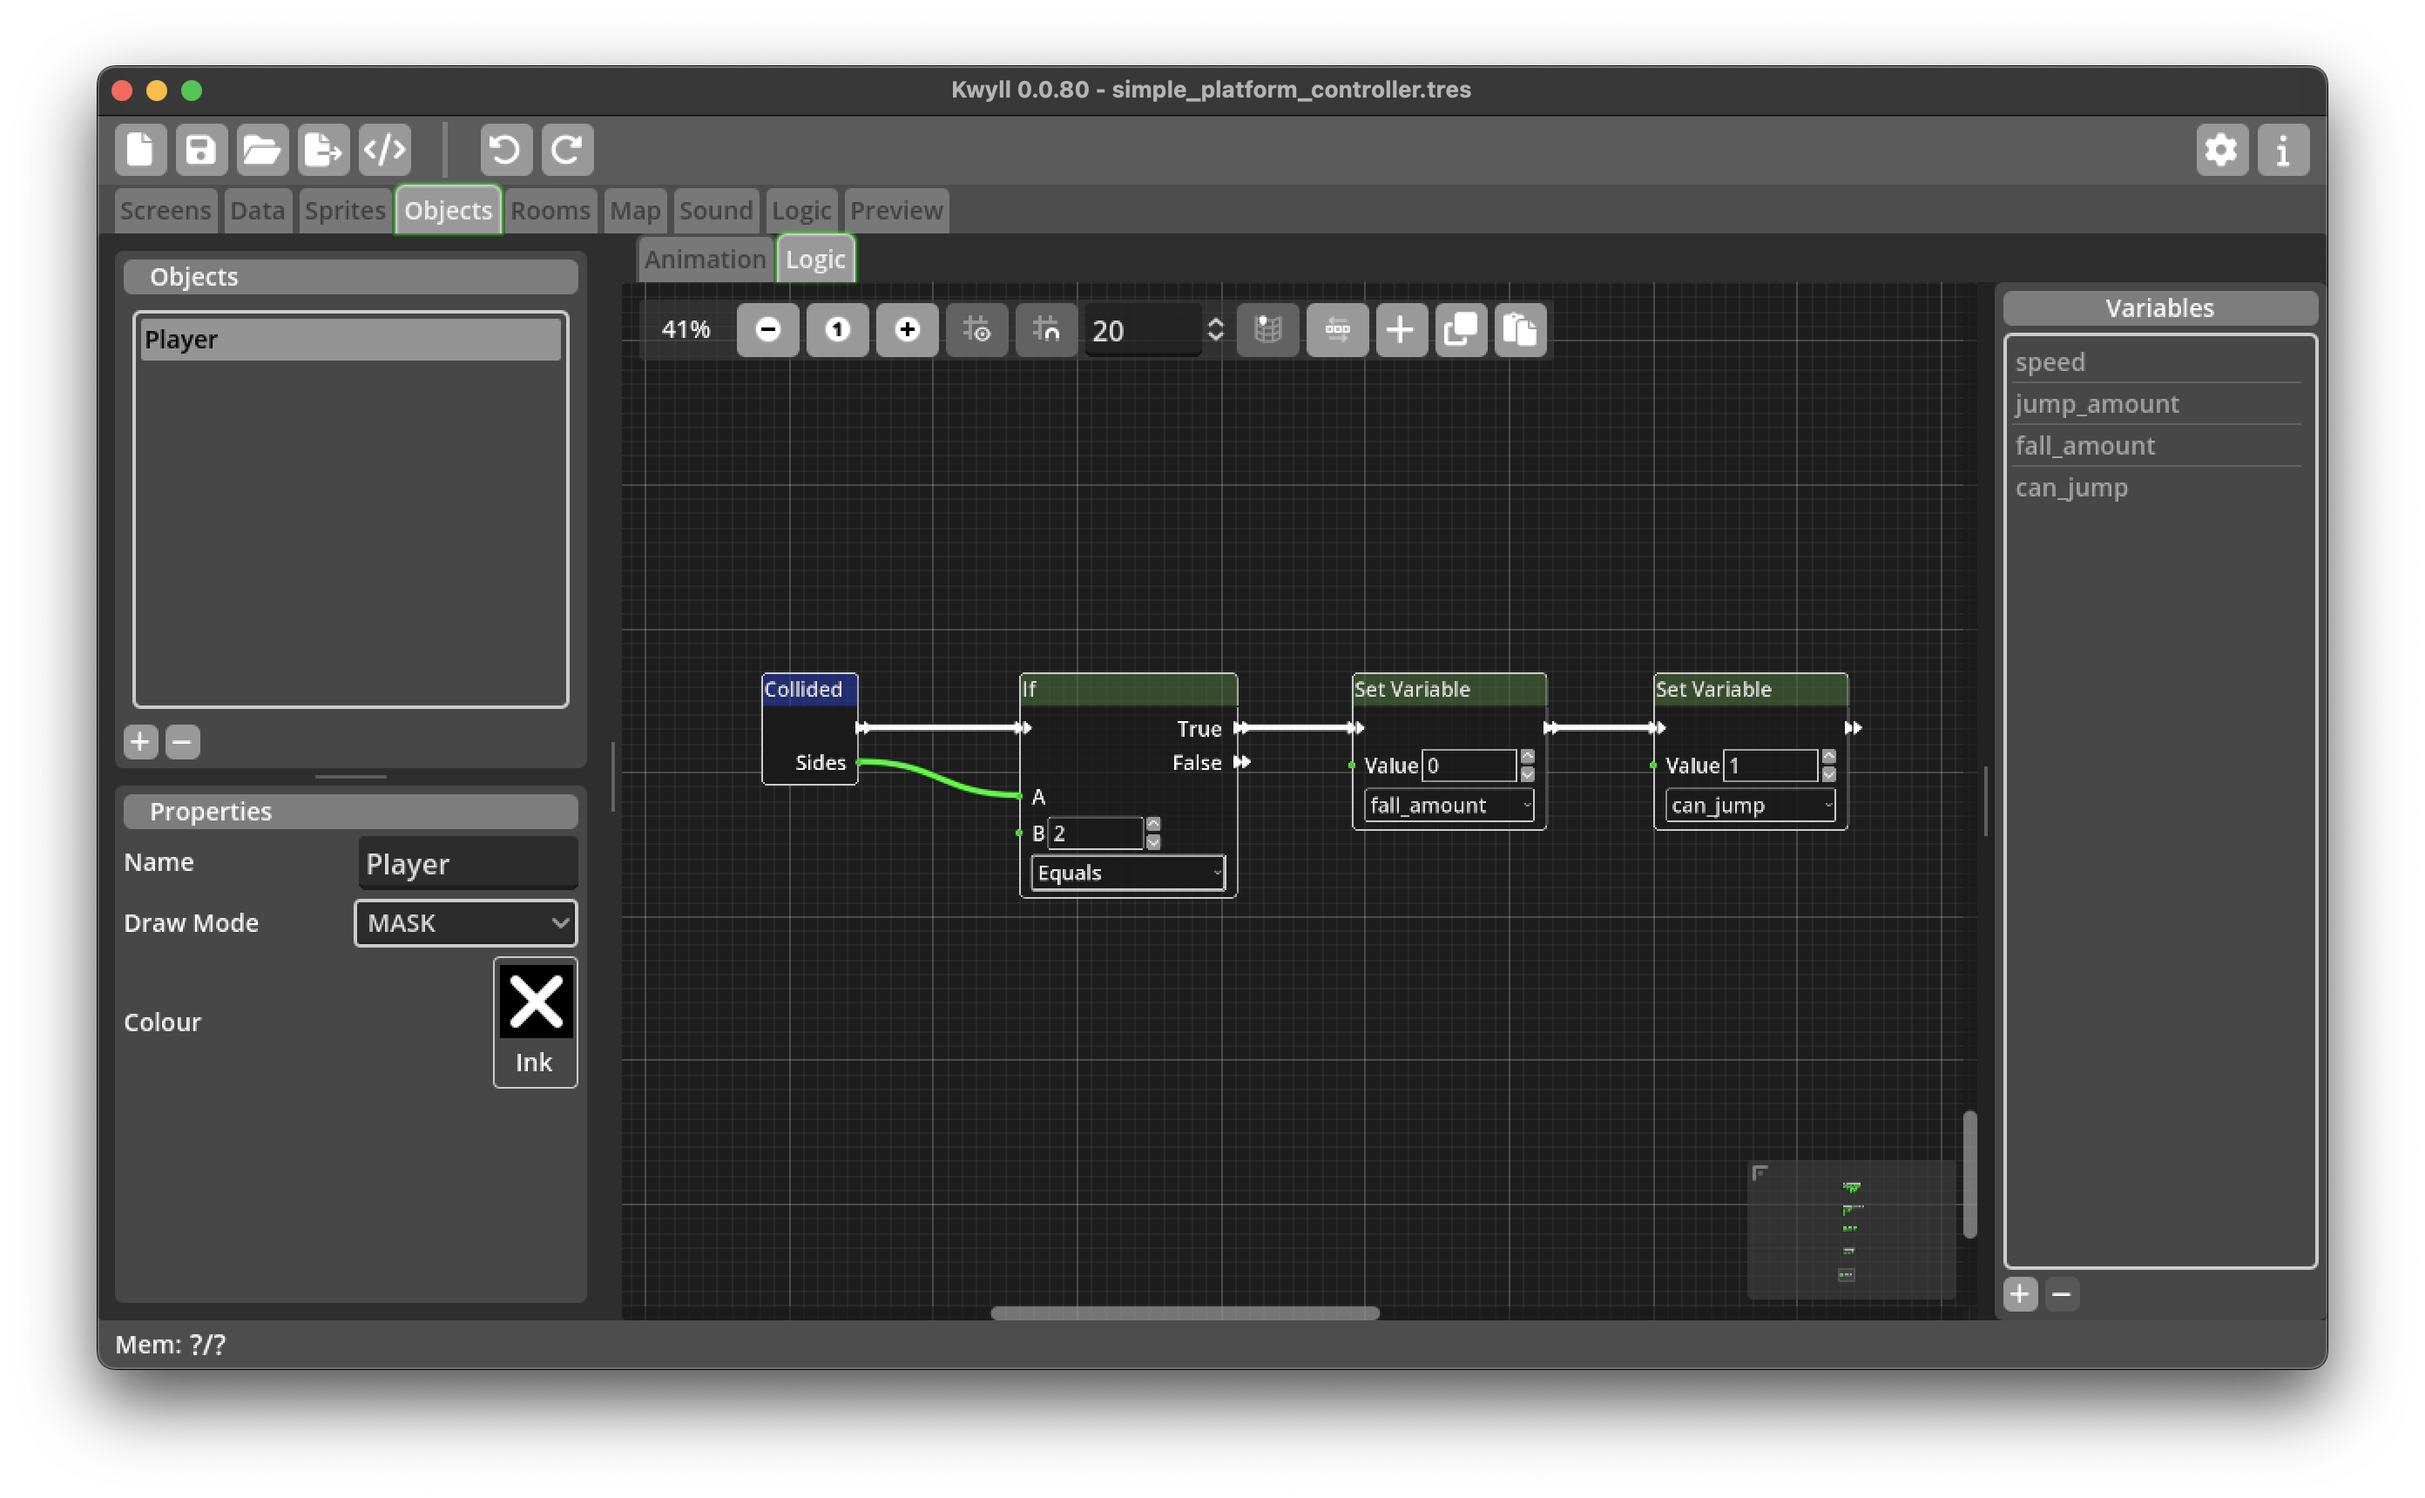
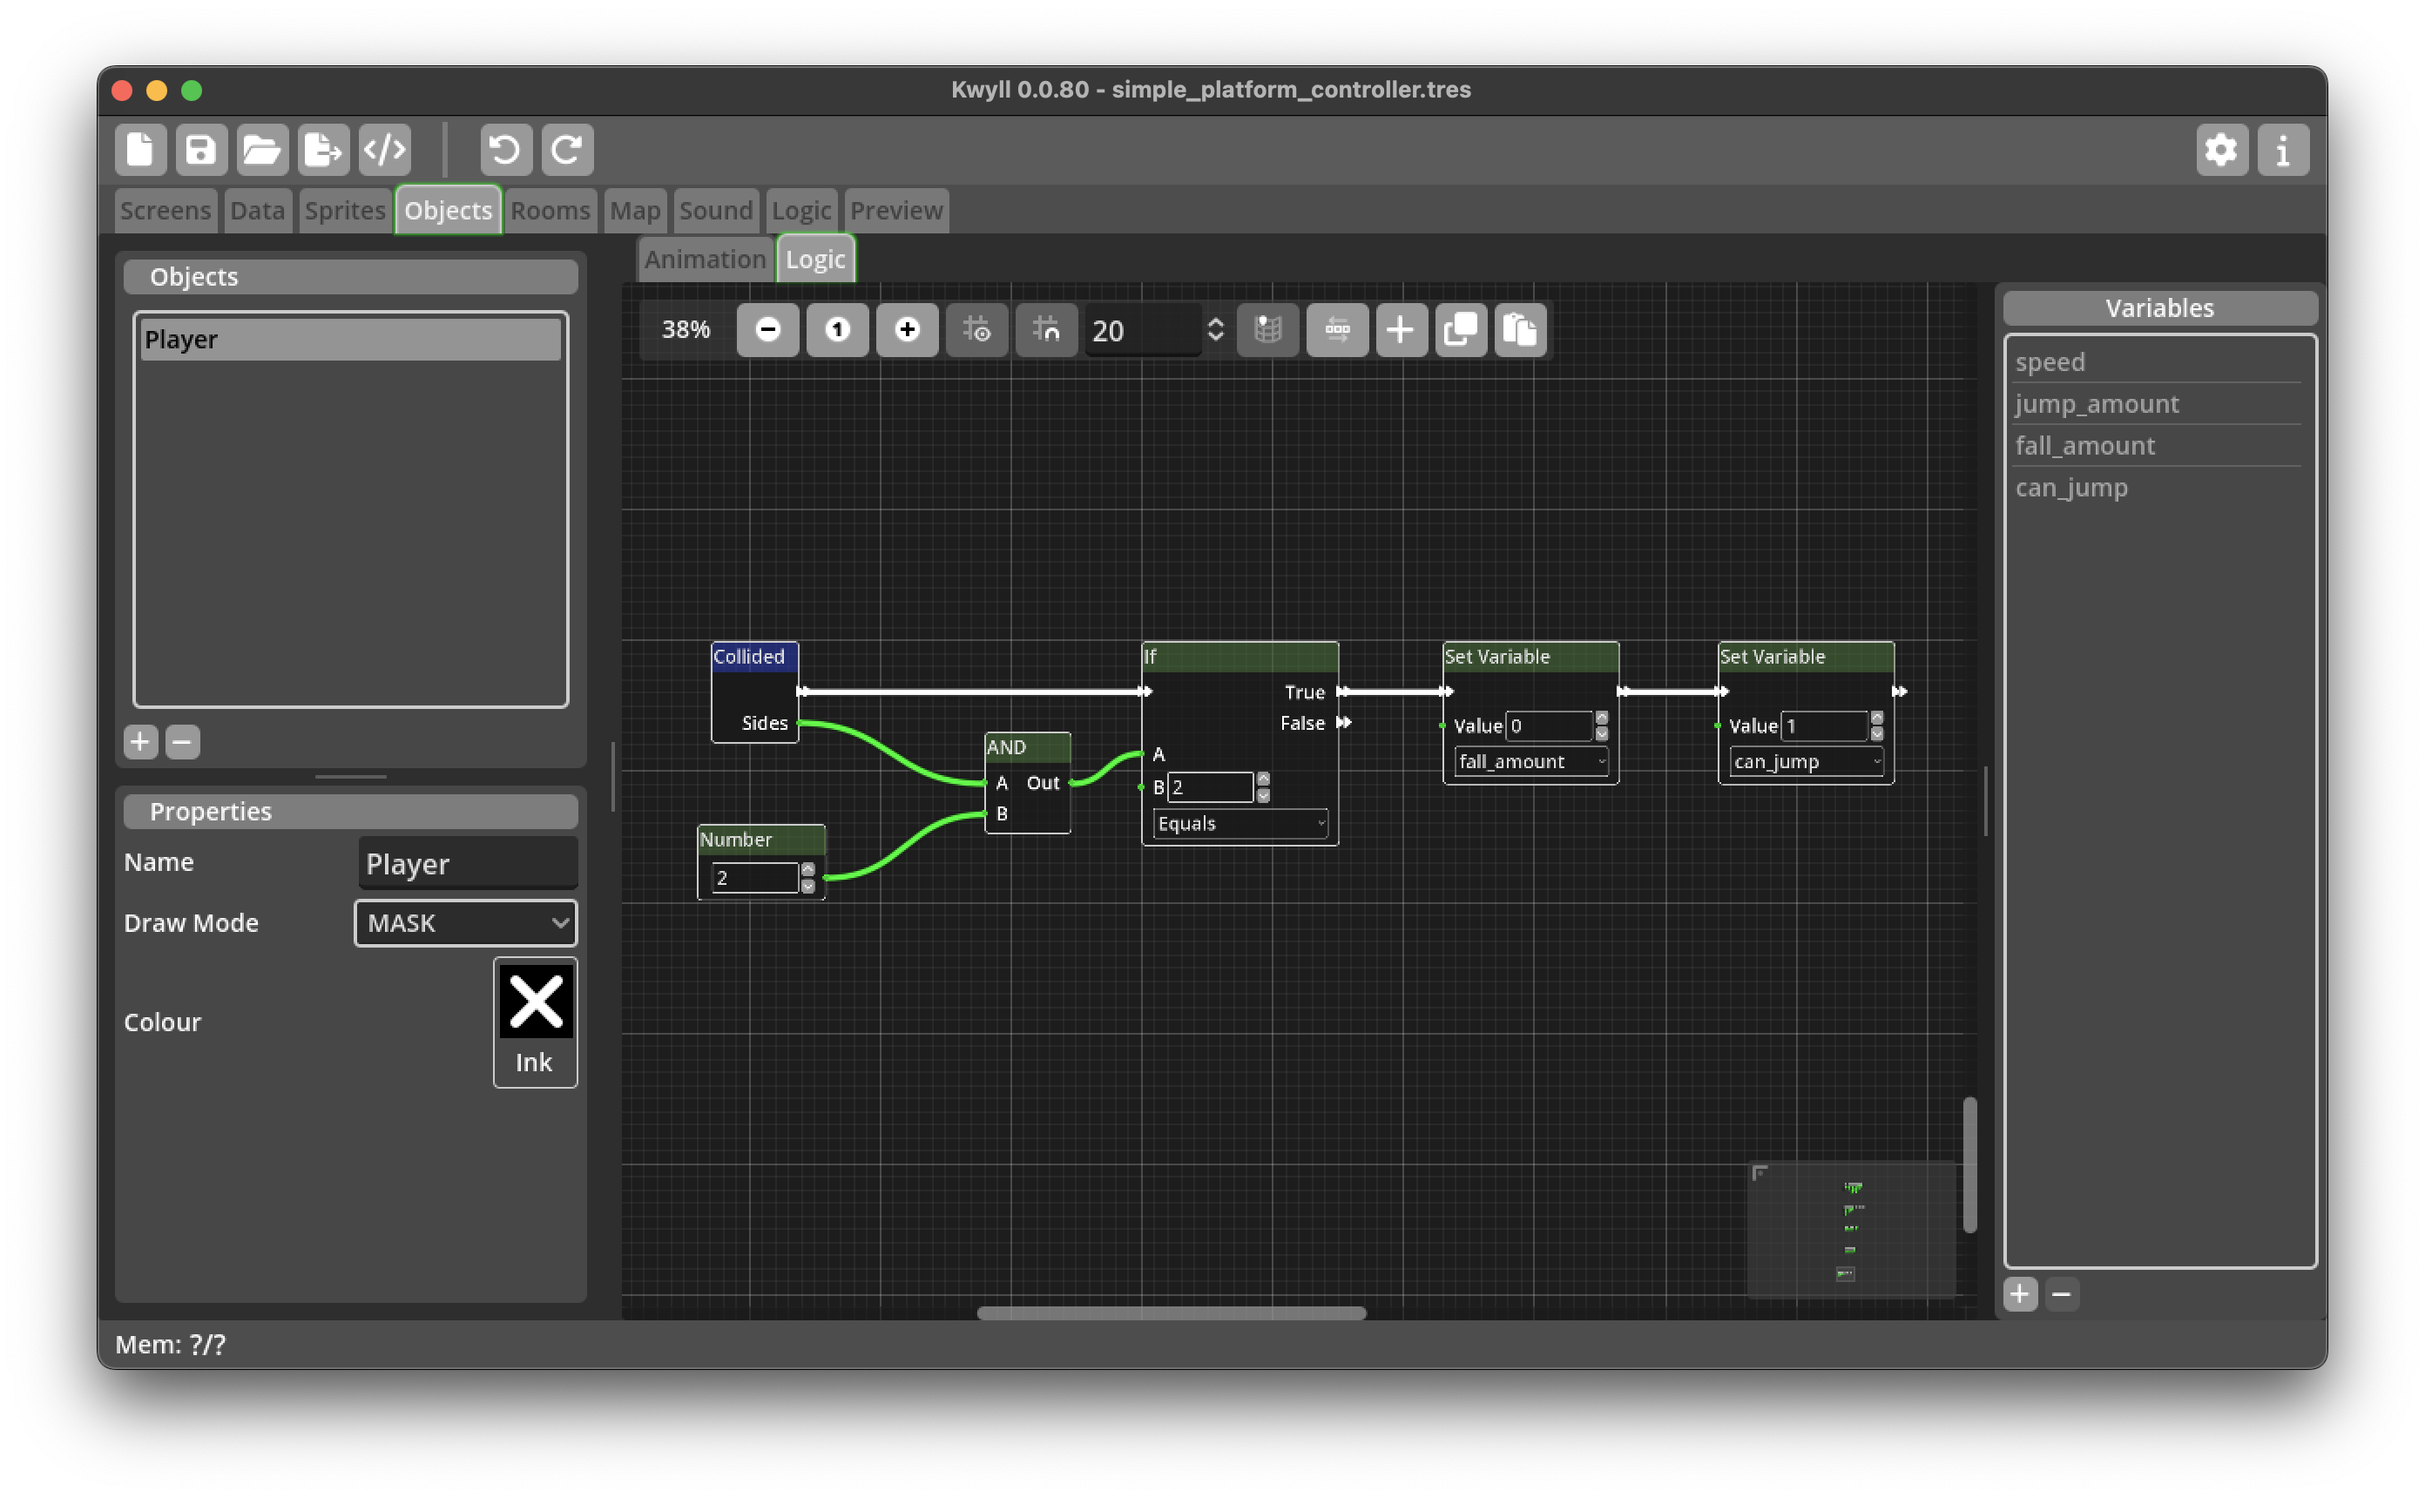
Update tutorial to fix collision detection.
* Was disallowing jump if collided with walls as well as down.

diff --git a/docs/tutorials/simple_platformer_controller.md b/docs/tutorials/simple_platformer_controller.md
@@ -184,13 +184,31 @@ to develop your game around this controller.
 
 ![Landing](../assets/tutorials/simple_platformer_controller/land_logic.png)
 
-The flow first checks if the side that was hit is 2, which indicates the player
-hit something when moving down on the screen, i.e. hit the top of a tile that
-has the top collision flag set, like our tile. If this is true, we set the
-"fall_amount" variable to 0, the [Fall Processing](#fall_processing) flow will
-increase it to take care of falling off a platform next time round, and set the
-"can_jump" variable to 1 to indicate that the player can now jump again as they
-have landed.
+The flow first checks if the sides includes "TOP" which is 2, it does this by
+logically ANDing the sides value with 2. Recall that the sides is a bit field,
+bit 0 (value 1 if collided) is UP, i.e. the move resulting in the object
+hitting something from below, bit 1 (value 2 if collided) is DOWN, bit 2 (value
+4 if collided) is LEFT and bit 3 (value 8 if collided) is RIGHT. The actual
+valud of sides is a potential combination of these values, for example, if the
+object collided in both the DOWN and LEFT directions, the value will be 2 + 4 =
+6, ANDing with 2, will remove any other directions from the value but the DOWN
+value, so if the player does collide both DOWN and LEFT, LEFT will be ignored,
+the output from 6 AND 2 is 2, as illustrated by the binary representation below. 
+
+                RLDU
+    6       00000110
+    2       00000010
+
+Only if both "bits" in the binary number are 1, will the bit be 1 in the
+result, so the result of ANDing these two number will be 00000010 in binary,
+which is 2. This means we can just compare the result with 2 to check if the
+object collided in a downwards direction at all, irrespective of whether it
+collided in another direction as well or not.
+
+If this is true, we set the "fall_amount" variable to 0, the [Fall
+Processing](#fall_processing) flow will increase it to take care of falling off
+a platform next time round, and set the "can_jump" variable to 1 to indicate
+that the player can now jump again as they have landed.
 
 
 ## Testing
